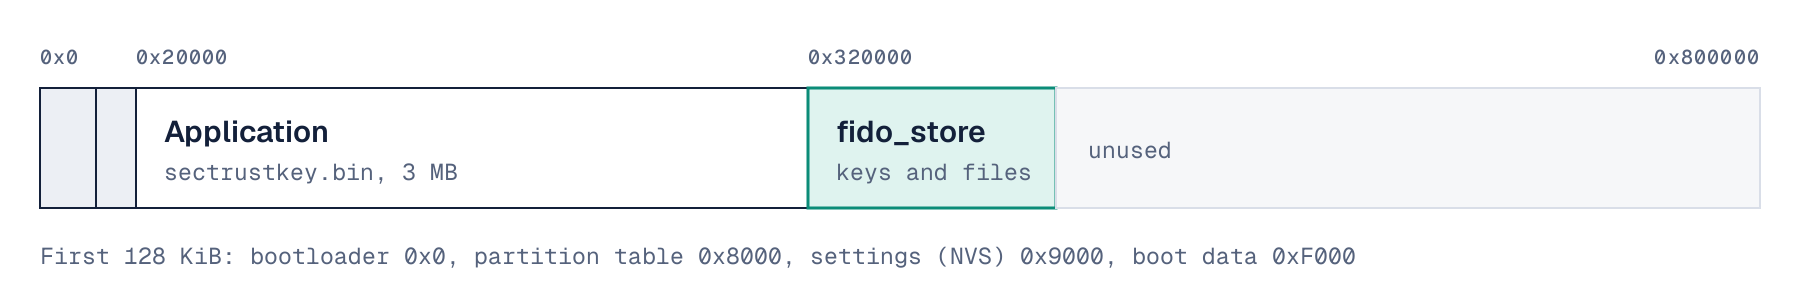
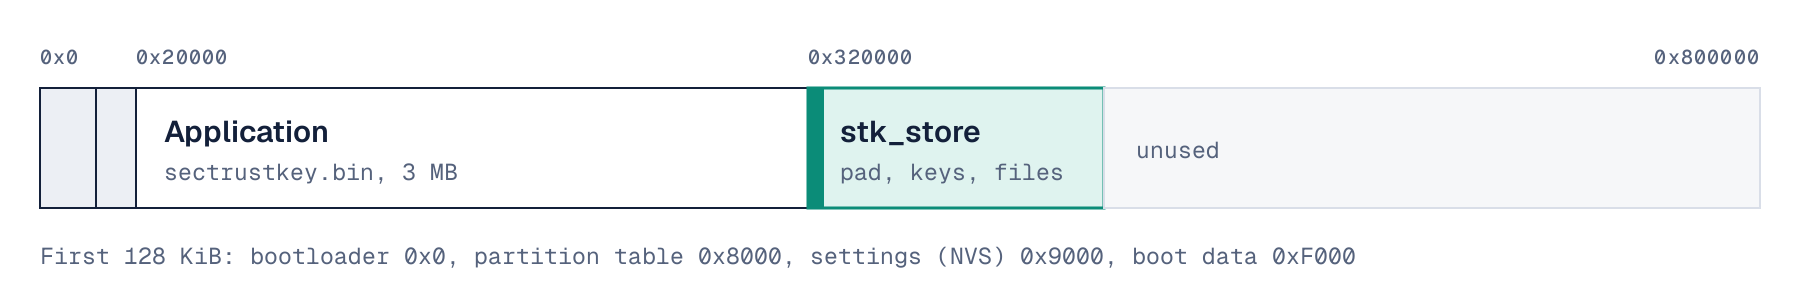
Install and update from M5 Launcher
The key store can now also live in a data partition named stk_store whose
first 4 KiB is an installer pad. Launcher creates the partition from the
image's table, reuses it on updates and copies only the pad, so installs,
updates and other apps never touch the keys. Devices flashed with v1.0 keep
their fido_store partition and remain supported.

A partition that holds no SecTrustKey data yet (for example another app's
leftovers) now offers "Set up storage?" on the recovery screen; a store
that once held keys still needs two confirmations to erase.

scripts/make-image.sh builds the single image for esptool, M5Burner and
Launcher.

diff --git a/board/key_store_esp32.c b/board/key_store_esp32.c
@@ -112,21 +112,41 @@ static int validate_partition_table(void) {
     return 0;
 }
 
+/* The store as every caller sees it: the key pages at offset 0 and the filesystem at
+ * CF_FIDO_FS_OFFSET. For a fido_store partition this is the partition itself; for an
+ * stk_store partition it starts one sector in, after the installer pad. Only address and
+ * size differ from the real partition, and esp_partition_read/write/erase_range/mmap use
+ * just those fields, so the installer pad can never be read or written through it. */
+static esp_partition_t store_view;
+
+/* After validate_partition_table(): the view of the partition it selected, or NULL. */
+static const esp_partition_t *open_store_view(void) {
+    const int fixed = fido_layout.kind == CF_STORE_FIXED;
+    const esp_partition_t *partition = esp_partition_find_first(
+        (esp_partition_type_t)(fixed ? CF_FIDO_PART_TYPE : CF_STK_PART_TYPE),
+        (esp_partition_subtype_t)(fixed ? CF_FIDO_PART_SUBTYPE : CF_STK_PART_SUBTYPE),
+        fixed ? CF_FIDO_PART_LABEL : CF_STK_PART_LABEL);
+    if (partition == NULL || partition->address != fido_layout.partition_offset) {
+        return NULL;
+    }
+    store_view = *partition;
+    store_view.address = fido_layout.store_offset;
+    store_view.size = CF_FIDO_STORE_SIZE;
+    return &store_view;
+}
+
 int cardputer_key_store_prepare(void) {
-    fido_partition = esp_partition_find_first(CF_FIDO_PART_TYPE,
-                                              CF_FIDO_PART_SUBTYPE,
-                                              CF_FIDO_PART_LABEL);
+    fido_partition = NULL;
+    const int validation = validate_partition_table();
+    if (validation != 0) {
+        store_status = validation;
+        return store_status;
+    }
+    fido_partition = open_store_view();
     if (fido_partition == NULL) {
         store_status = -(int)CF_LAYOUT_MISSING;
         return store_status;
     }
-    const int validation = validate_partition_table();
-    if (validation != 0) {
-        store_status = validation;
-        fido_partition = NULL;
-        return store_status;
-    }
-
     return 0;
 }
 
@@ -200,6 +220,27 @@ void otp_platform_init(const uint8_t **otp_key_1_out,
     if (otp_key_2_out != NULL) {
         *otp_key_2_out = device_keys.key2;
     }
+}
+
+int cardputer_key_store_kind(void) {
+    return fido_partition == NULL ? -1 : (int)fido_layout.kind;
+}
+
+/* 1 when neither key page has ever held a SecTrustKey record (no CFKEY magic at all), as in
+ * a partition an installer has just created over another app's old data. Used only to word
+ * the recovery screen; erasing always needs the user's explicit confirmation. */
+int cardputer_key_store_foreign(void) {
+    static const uint8_t prefix[7] = {'C', 'F', 'K', 'E', 'Y', '0', '0'};
+    uint8_t head[sizeof(prefix)];
+    for (uint32_t page = 0; page < 2; ++page) {
+        if (store_read(NULL, page * 0x1000u, head, sizeof(head)) != 0) {
+            return 0;
+        }
+        if (memcmp(head, prefix, sizeof(prefix)) == 0) {
+            return 0;
+        }
+    }
+    return 1;
 }
 
 int otp_platform_enable_secure_boot(uint8_t bootkey, bool secure_lock) {

diff --git a/board/flash_layout.c b/board/flash_layout.c
@@ -33,7 +33,8 @@ cf_layout_status cf_flash_layout_validate(const cf_partition_desc *partitions,
         return CF_LAYOUT_TOO_MANY;
     }
 
-    size_t store_index = count;
+    size_t fixed_index = count;
+    size_t installer_index = count;
     for (size_t i = 0; i < count; ++i) {
         if (!label_terminated(partitions[i].label)) {
             return CF_LAYOUT_INVALID_ARGUMENT;
@@ -51,23 +52,43 @@ cf_layout_status cf_flash_layout_validate(const cf_partition_desc *partitions,
             }
         }
         if (strcmp(partitions[i].label, CF_FIDO_PART_LABEL) == 0) {
-            if (store_index != count) {
-                return CF_LAYOUT_DUPLICATE_LABEL;
-            }
-            store_index = i;
+            fixed_index = i;
+        } else if (strcmp(partitions[i].label, CF_STK_PART_LABEL) == 0) {
+            installer_index = i;
         }
     }
-    if (store_index == count) {
+
+    /* A fido_store partition already holds keys wherever it exists, so it wins. */
+    size_t store_index;
+    cf_store_kind kind;
+    if (fixed_index != count) {
+        store_index = fixed_index;
+        kind = CF_STORE_FIXED;
+    } else if (installer_index != count) {
+        store_index = installer_index;
+        kind = CF_STORE_INSTALLER;
+    } else {
         return CF_LAYOUT_MISSING;
     }
 
     const cf_partition_desc *store = &partitions[store_index];
-    if (store->type != CF_FIDO_PART_TYPE ||
-        store->subtype != CF_FIDO_PART_SUBTYPE) {
-        return CF_LAYOUT_WRONG_TYPE;
-    }
-    if (store->size != CF_FIDO_STORE_SIZE) {
-        return CF_LAYOUT_WRONG_SIZE;
+    if (kind == CF_STORE_FIXED) {
+        if (store->type != CF_FIDO_PART_TYPE ||
+            store->subtype != CF_FIDO_PART_SUBTYPE) {
+            return CF_LAYOUT_WRONG_TYPE;
+        }
+        if (store->size != CF_FIDO_STORE_SIZE) {
+            return CF_LAYOUT_WRONG_SIZE;
+        }
+    } else {
+        if (store->type != CF_STK_PART_TYPE ||
+            store->subtype != CF_STK_PART_SUBTYPE) {
+            return CF_LAYOUT_WRONG_TYPE;
+        }
+        /* A launcher may round a partition up; only the first CF_STK_PART_SIZE is used. */
+        if (store->size < CF_STK_PART_SIZE) {
+            return CF_LAYOUT_WRONG_SIZE;
+        }
     }
     /* Bootloader and partition table are not reported by esp_partition_find,
      * so reserve the first 0x9000 bytes explicitly. */
@@ -89,7 +110,10 @@ cf_layout_status cf_flash_layout_validate(const cf_partition_desc *partitions,
     }
 
     out->flash_size = flash_size;
-    out->store_offset = store->offset;
+    out->partition_offset = store->offset;
+    out->store_offset =
+        store->offset + (kind == CF_STORE_INSTALLER ? CF_STK_PAD_SIZE : 0u);
+    out->kind = kind;
     return CF_LAYOUT_OK;
 }
 

diff --git a/board/backup.cpp b/board/backup.cpp
@@ -801,11 +801,58 @@ void backup_startup(Board& board) {
     esp_restart();
 }
 
+struct EraseJob {
+    bool ok = false;
+};
+
+void erase_store_job(void* arg) {
+    auto* job = static_cast<EraseJob*>(arg);
+    const esp_partition_t* store = cardputer_fido_partition();
+    job->ok = store != nullptr && esp_partition_erase_range(store, 0, CF_FIDO_STORE_SIZE) == ESP_OK;
+}
+
+// Erases the key pages and filesystem so the next start creates a new device identity,
+// exactly as on a freshly flashed device. Offered only for a valid partition that holds no
+// usable store, and never without the user's confirmation: once for an area that has never
+// held SecTrustKey data, twice for one that has.
+bool set_up_new_store(Board& board, bool never_used) {
+    if (never_used) {
+        if (!confirm(board, "Set up storage?", "No SecTrustKey keys here yet", Mood::Info, "Storage")) {
+            return false;
+        }
+    } else {
+        if (!confirm(board, "Erase and start over?", "Keys stored here are lost", Mood::Bad, "Storage") ||
+            !confirm(board, "Really erase?", "This cannot be undone", Mood::Bad, "Storage")) {
+            return false;
+        }
+    }
+    EraseJob job;
+    run_with_progress(board, "Preparing storage", "Erasing the key area", Accent::Amber, 6000,
+                      erase_store_job, &job);
+    if (!job.ok) {
+        notice(board, "Erase failed", "USB stays off", Mood::Bad, "Storage");
+        return false;
+    }
+    notice(board, "Storage ready", "Press Enter to restart", Mood::Good, "Storage");
+    esp_restart();
+    return true;  // not reached on the device; host stubs of esp_restart() do return
+}
+
 [[noreturn]] void backup_recovery(Board& board) {
+    // Status -3 means the partition is valid but its contents are not a usable store. Right
+    // after an installer such as M5 Launcher creates the partition, it still holds another
+    // app's old data and no SecTrustKey record at all.
+    const bool can_set_up = cardputer_key_store_status() == -3 && cardputer_fido_partition() != nullptr;
+    const bool never_used = can_set_up && cardputer_key_store_foreign() == 1;
     for (;;) {
+        if (never_used) { set_up_new_store(board, true); }
         if (confirm(board, "Storage recovery", "Restore backup from SD?")) {
             run_mode(board, BackupMode::Restore);
             if (sd_teardown_failed) { esp_restart(); }
+        } else if (can_set_up && !never_used) {
+            if (!set_up_new_store(board, false)) {
+                notice(board, "USB disabled", "Restore required", Mood::Bad);
+            }
         } else {
             notice(board, "USB disabled", "Restore required", Mood::Bad);
         }

diff --git a/board/flash_layout.h b/board/flash_layout.h
@@ -14,6 +14,25 @@
 #define CF_FLASH_RESERVED_SIZE 0x9000u
 #define CF_MAX_PARTITIONS 32u
 
+/*
+ * The installer-friendly layout. Firmware launchers such as M5 Launcher only create
+ * data partitions they know (FAT, SPIFFS, LittleFS) and copy whatever bytes an image
+ * carries for them on every install and update. So the store is also accepted as a
+ * SPIFFS-typed data partition whose first sector is an "installer pad": the image ships
+ * 4 KiB there, an installer rewrites only that sector, and the key pages and filesystem
+ * start right after it. The contents are not a SPIFFS volume.
+ */
+#define CF_STK_PART_TYPE 0x01u
+#define CF_STK_PART_SUBTYPE 0x82u
+#define CF_STK_PART_LABEL "stk_store"
+#define CF_STK_PAD_SIZE 0x1000u
+#define CF_STK_PART_SIZE (CF_STK_PAD_SIZE + CF_FIDO_STORE_SIZE)
+
+typedef enum {
+    CF_STORE_FIXED = 0,    /* fido_store, type 0x40: full-flash installs up to v1.0 */
+    CF_STORE_INSTALLER = 1 /* stk_store, data/SPIFFS with an installer pad */
+} cf_store_kind;
+
 #ifdef __cplusplus
 extern "C" {
 #endif
@@ -41,12 +60,15 @@ typedef struct {
 
 typedef struct {
     uint32_t flash_size;
-    uint32_t store_offset;
+    uint32_t store_offset;     /* absolute address of the key pages */
+    uint32_t partition_offset; /* absolute address of the partition that holds them */
+    cf_store_kind kind;
 } cf_flash_layout;
 
 /*
  * Validates an injected partition descriptor set. No partition table is
- * written and no fixed physical address is assumed.
+ * written and no fixed physical address is assumed. A fido_store partition is
+ * preferred when present; otherwise an stk_store partition is used.
  */
 cf_layout_status cf_flash_layout_validate(const cf_partition_desc *partitions,
                                            size_t count, uint32_t flash_size,

diff --git a/board/key_store_esp32.h b/board/key_store_esp32.h
@@ -9,8 +9,14 @@
 extern "C" {
 #endif
 
-/* Returns the validated fido_store partition, or NULL before init/failure. */
+/* Returns the validated key store (key pages at offset 0, filesystem at
+ * CF_FIDO_FS_OFFSET), or NULL before init/failure. For an stk_store partition this is a
+ * view that starts after the installer pad. */
 const esp_partition_t *cardputer_fido_partition(void);
+/* CF_STORE_FIXED (fido_store) or CF_STORE_INSTALLER (stk_store); -1 before prepare. */
+int cardputer_key_store_kind(void);
+/* 1 when neither key page holds any SecTrustKey record: a never-initialised partition. */
+int cardputer_key_store_foreign(void);
 /* 0 when keys are loaded or provisioned, negative on any failure. */
 int cardputer_key_store_init(void);
 int cardputer_key_store_status(void);

diff --git a/README.md b/README.md
@@ -81,20 +81,28 @@
 | 🔒 | **Startup passphrase** | Master keys encrypted at rest with PBKDF2-SHA256 and AES-256-GCM; wrong tries only add delays, nothing is erased |
 | 💾 | **Encrypted SD backup** | Back up, verify and restore the whole key store; PBKDF2 at 600,000 rounds, AES-256-GCM, kept in a `SecTrustKey` folder |
 | 🩺 | **Health check** | Scores your setup without spending a PIN try and tells you how to fix each item |
+| 🚀 | **M5 Launcher ready** | Install and update from Launcher next to other apps; one image also flashes with esptool or M5Burner |
 | 🧩 | **Your own USB identity** | Vendor ID, product ID, manufacturer and product name set at build time |
 
 ## Install in two minutes
 
-1. Download `sectrustkey-v1.0.0-cardputer-adv.bin` from the [latest release](https://github.com/TakMashhido/SecTrustKey/releases/latest).
-2. Put the Cardputer in download mode: power off, hold **G0**, plug in USB, release **G0**.
-3. Flash it. This **erases the whole chip**, so [back up](https://koustav.isroot.in/SecTrustKey/getting-started/install/#back-up-the-cardputer) first if it holds anything you want to keep:
+Download `sectrustkey-v1.1.0-cardputer-adv.bin` from the [latest release](https://github.com/TakMashhido/SecTrustKey/releases/latest). The same file works three ways:
+
+| | How |
+|---|---|
+| **M5 Launcher** | Copy the file to the SD card, then in Launcher open **SD**, select it and **Install**. SecTrustKey sits next to your other apps. [Guide](https://koustav.isroot.in/SecTrustKey/getting-started/launcher/) |
+| **esptool** | Download mode (power off, hold **G0**, plug in USB, release **G0**), then the command below. Replaces everything on the chip. |
+| **Browser** | Espressif's [browser flasher](https://espressif.github.io/esptool-js/): connect, **Erase Flash**, then program the file at `0x0`. |
 
 ```sh
 pip install esptool
-esptool.py --chip esp32s3 --baud 921600 write_flash --erase-all 0x0 sectrustkey-v1.0.0-cardputer-adv.bin
+esptool.py --chip esp32s3 --baud 921600 write_flash --erase-all 0x0 sectrustkey-v1.1.0-cardputer-adv.bin
 ```
 
-No Python? Use Espressif's [browser flasher](https://espressif.github.io/esptool-js/): connect, **Erase Flash**, then program the file at address `0x0`. Then [secure the device](https://koustav.isroot.in/SecTrustKey/getting-started/first-steps/): change the factory PINs, set a FIDO PIN, and consider a startup passphrase.
+On the first start the device may ask **Set up storage?**; press <kbd>Enter</kbd>. Then [secure the device](https://koustav.isroot.in/SecTrustKey/getting-started/first-steps/): change the factory PINs, set a FIDO PIN, and consider a startup passphrase.
+
+> [!CAUTION]
+> In M5 Launcher, **never delete a SecTrustKey entry** unless you mean to erase your keys: Launcher removes the key storage together with the app. To update, just install the new file; it shares the same keys.
 
 <details>
 <summary><b>Build from source</b></summary>
@@ -108,6 +116,8 @@ cd SecTrustKey
 scripts/in-container.sh bash scripts/build.sh
 # with your own USB identity:
 scripts/in-container.sh bash scripts/build.sh -DUSB_VID=0x1209 -DUSB_PID=0x0001 "-DUSB_PRODUCT=My Key"
+# the single image for esptool, M5Burner and M5 Launcher:
+scripts/in-container.sh bash scripts/make-image.sh
 ```
 
 The images are written to `build/cardputer-adv/`. See [Build from source](https://koustav.isroot.in/SecTrustKey/getting-started/build/).
